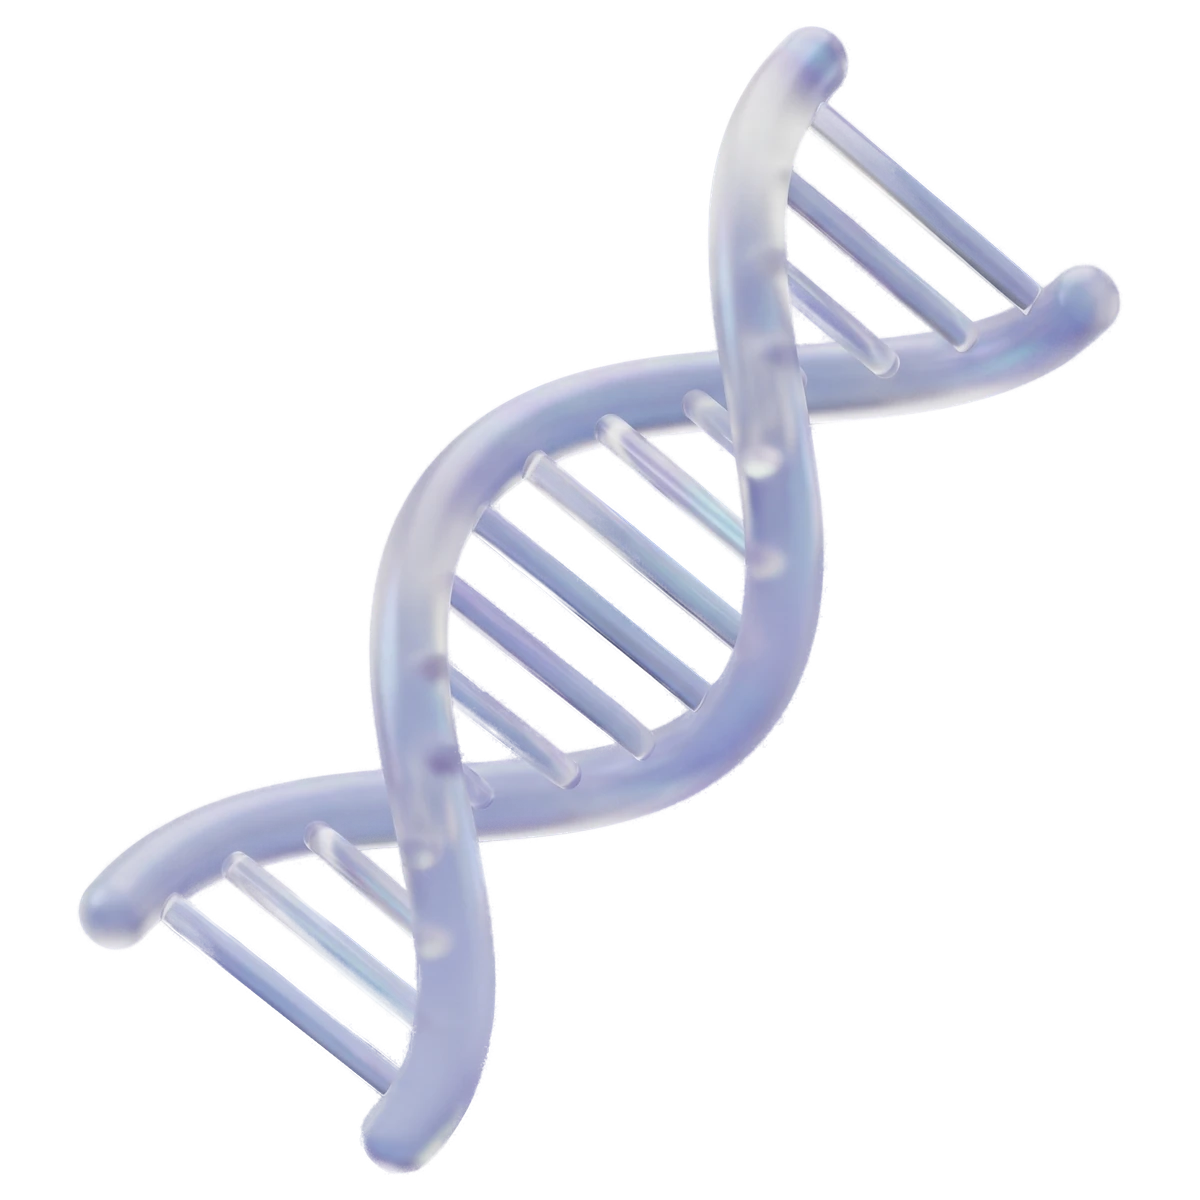
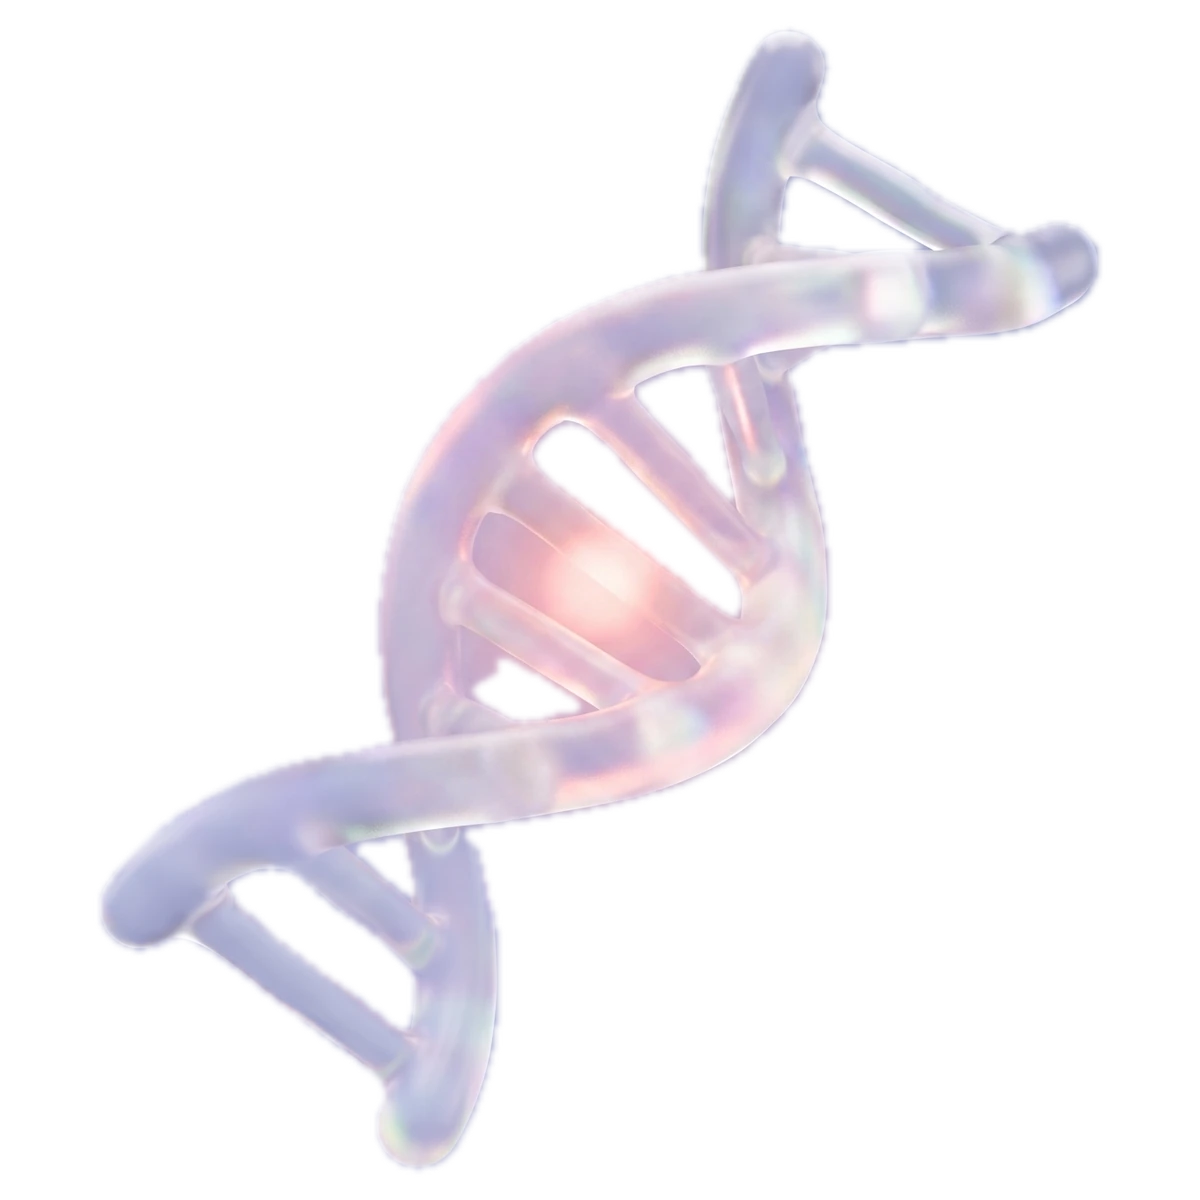
히어로 에셋을 accent 계열 9종으로 교체 — 사용자 선정
사용자가 직접 고른 9종: atom · dna · mitochondria · chloroplast · synapse ·
population · element · tectonics · universe.

base 계열이 아니라 motifs_accent 를 쓴다. 검정 배경에서 차이가 크다 —
base 는 반투명 유리라 축소하면 흐릿한 덩어리가 되는데, accent 는 형태와
색이 남는다. 미토콘드리아의 크리스타, 나선은하의 팔, 지구의 판 경계가
실제로 읽힌다. 앞서 base 로 6종을 고를 때 "검정에 올려보니 상당수가
뭉갠 덩어리가 된다"고 판단했던 것의 원인이 계열 선택이었다.

accent 폴더에 이미 배경이 제거된 판본이 있어 rembg 를 다시 돌리지 않았다.

6종 → 9종이라 배치를 다시 잡았다. 실측한 금지 구역은 헤드라인 x 5~50%
(900 weight 로 키운 뒤 폭이 여기까지 왔다) · y 42~67%, 강사 x 73%~ 이고,
중단 띠에서 남는 폭은 x 52~71% 뿐이라 거기 하나만 넣었다. 상단·중단·하단
세 줄로 나눠 같은 띠에 몰리지 않게 했다.

데스크탑 1440·모바일 390 양쪽에서 헤드라인·강사 겹침 0 을 계산으로 확인.

Changed region(s): [[0.0617, 0.0, 0.9558, 0.9867]]

diff --git a/frontend/landing/field.js b/frontend/landing/field.js
@@ -6,29 +6,38 @@
  * 그래서 뜨는 것도 에셋 하나뿐이다. 라벨·툴팁·설명을 붙이지 않는다.
  */
 
-/* 텍스트·강사 사진을 피해 6개를 흩어놓는다. 값은 히어로 기준 %.
-   피해야 할 곳 둘 —
-   ① 헤드라인: 좌측 4~36% × 40~64% (검은 화면의 유일한 글자라 조금만 겹쳐도 티가 난다)
-   ② 강사: 우측 72%~ 전 높이 */
+/* 텍스트·강사 사진을 피해 흩어놓는다. 값은 히어로 기준 %.
+   실측한 금지 구역 (1440×900 기준) —
+   ① 헤드라인 x 5~50% · y 42~67%. 900 weight 로 키운 뒤 폭이 50%까지 왔다
+   ② 강사 x 73%~ 전 높이
+   중단 띠(y 42~67%)에서 남는 폭은 **x 52~71%** 뿐이다. 거기 하나만 넣는다.
+
+   9개라 6개보다 촘촘하므로 크기를 줄이고, 상단·중단·하단 세 줄로 나눈다. */
 const LAYOUT = [
-  { x: 16, y: 20, size: 18 },   // 헤드라인 위
-  { x: 43, y: 14, size: 15 },
-  { x: 62, y: 26, size: 17 },
-  { x: 12, y: 80, size: 16 },   // 헤드라인 아래
-  { x: 50, y: 55, size: 20 },   // 헤드라인 우측 — 글자 끝에서 충분히 떨어뜨린다
-  { x: 66, y: 84, size: 14 },
+  { x: 13, y: 16, size: 16 },   // ─ 상단 (헤드라인 위)
+  { x: 31, y: 27, size: 13 },
+  { x: 49, y: 13, size: 15 },
+  { x: 65, y: 25, size: 14 },
+  { x: 61, y: 47, size: 15 },   // ─ 중단 — 헤드라인과 강사 사이 좁은 틈
+  { x: 11, y: 80, size: 15 },   // ─ 하단 (헤드라인 아래)
+  { x: 29, y: 89, size: 13 },
+  { x: 47, y: 79, size: 15 },
+  { x: 63, y: 88, size: 13 },
 ];
 
 /* 모바일은 헤드라인이 화면 한가운데에 오고(1단 배치) 강사가 우하단을 먹는다.
    그래서 세로로 비는 구간은 상단 8~30%와 중하단 55~72% 둘뿐이다.
    그 두 띠에만 놓는다 — 데스크탑 좌표를 그대로 쓰면 글자를 정면으로 덮는다. */
 const LAYOUT_SM = [
-  { x: 20, y: 11, size: 27 },
-  { x: 56, y: 8, size: 21 },
-  { x: 84, y: 19, size: 23 },
-  { x: 15, y: 58, size: 24 },
-  { x: 44, y: 68, size: 25 },
-  { x: 22, y: 84, size: 19 },   // 우측 하단은 강사 머리라 좌하단으로
+  { x: 18, y: 9, size: 22 },    // ─ 상단 띠 (헤드라인 위)
+  { x: 48, y: 15, size: 19 },
+  { x: 78, y: 8, size: 21 },
+  { x: 86, y: 27, size: 18 },
+  { x: 14, y: 25, size: 19 },
+  { x: 15, y: 58, size: 21 },   // ─ 중하단 띠 (헤드라인 아래, 강사 위)
+  { x: 42, y: 65, size: 22 },
+  { x: 20, y: 82, size: 19 },   // 우하단은 강사 머리라 비운다
+  { x: 47, y: 87, size: 17 },
 ];
 
 const isSmall = () => matchMedia('(max-width: 860px)').matches;

diff --git a/frontend/landing/data.js b/frontend/landing/data.js
@@ -7,14 +7,19 @@
  * 읽어오는 자리다(SPEC §7-2).
  */
 
-/** 히어로에 숨는 것들. 순서가 곧 화면 배치 순서다 */
+/* 히어로에 숨는 것들. 순서가 곧 화면 배치 순서다(field.js LAYOUT과 짝).
+   accent 계열을 쓴다 — 같은 개념의 base 버전은 검정에서 흐릿한 유리 덩어리가 되는데,
+   accent 는 형태가 또렷하고 색이 남는다(미토콘드리아 크리스타·나선은하·지구 판 경계). */
 export const UNITS = [
   { key: 'atom', asset: 'assets/motifs/atom.webp' },
   { key: 'dna', asset: 'assets/motifs/dna.webp' },
-  { key: 'electromagnetism', asset: 'assets/motifs/electromagnetism.webp' },
-  { key: 'ecosystem', asset: 'assets/motifs/ecosystem.webp' },
-  { key: 'earth-system', asset: 'assets/motifs/earth-system.webp' },
-  { key: 'antibody', asset: 'assets/motifs/antibody.webp' },
+  { key: 'mitochondria', asset: 'assets/motifs/mitochondria.webp' },
+  { key: 'chloroplast', asset: 'assets/motifs/chloroplast.webp' },
+  { key: 'synapse', asset: 'assets/motifs/synapse.webp' },
+  { key: 'population', asset: 'assets/motifs/population.webp' },
+  { key: 'element', asset: 'assets/motifs/element.webp' },
+  { key: 'tectonics', asset: 'assets/motifs/tectonics.webp' },
+  { key: 'universe', asset: 'assets/motifs/universe.webp' },
 ];
 
 /**
